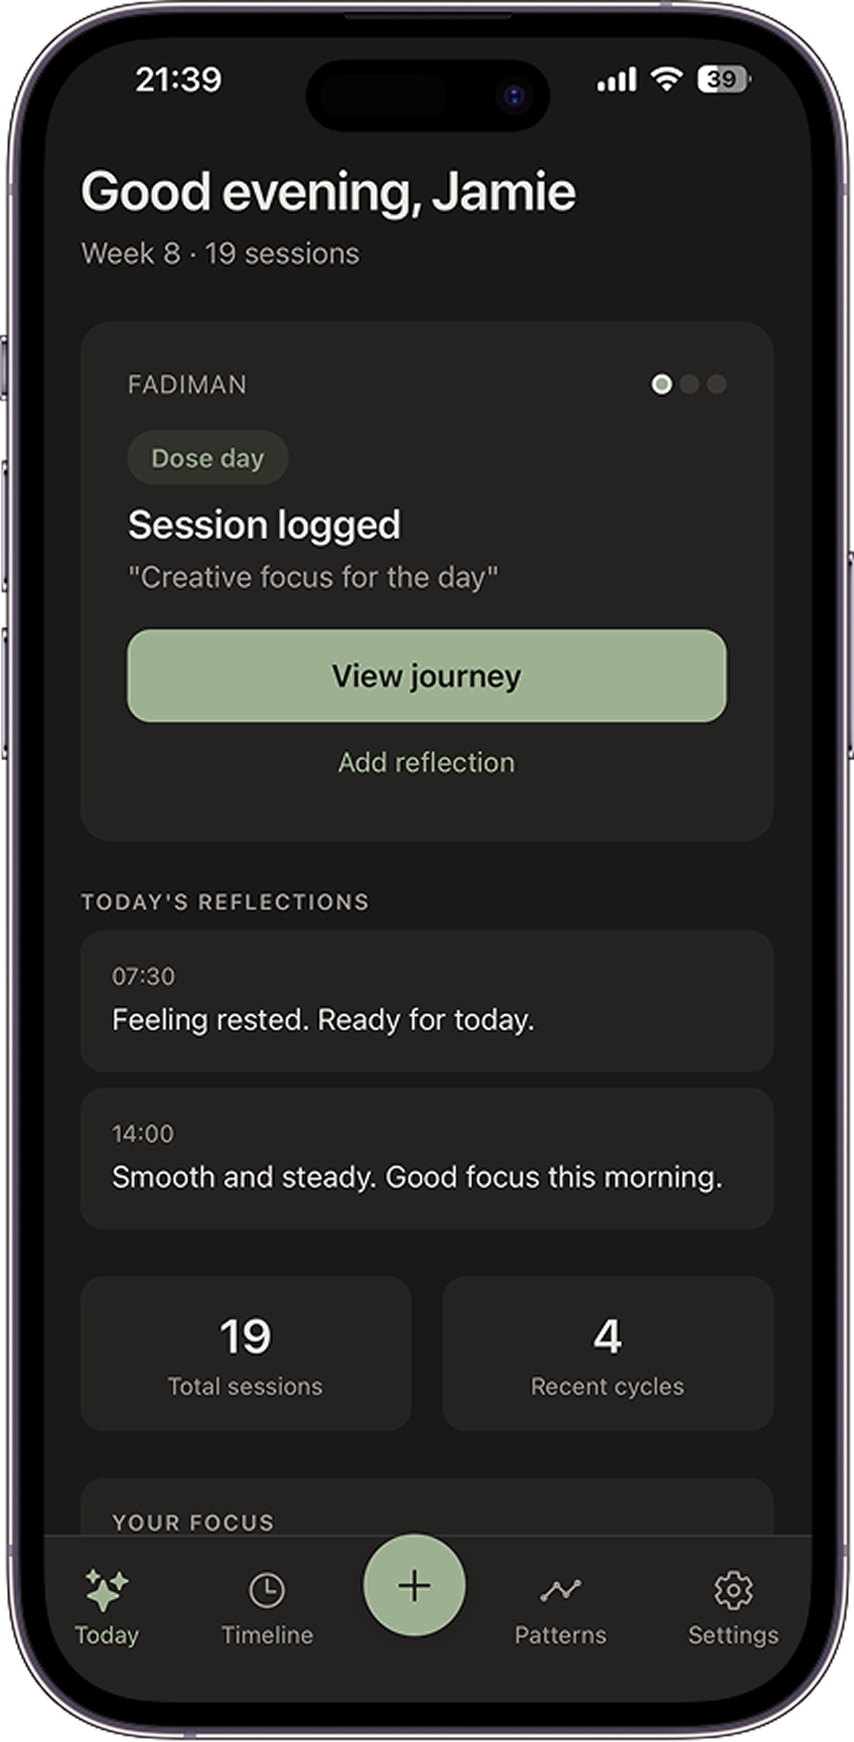
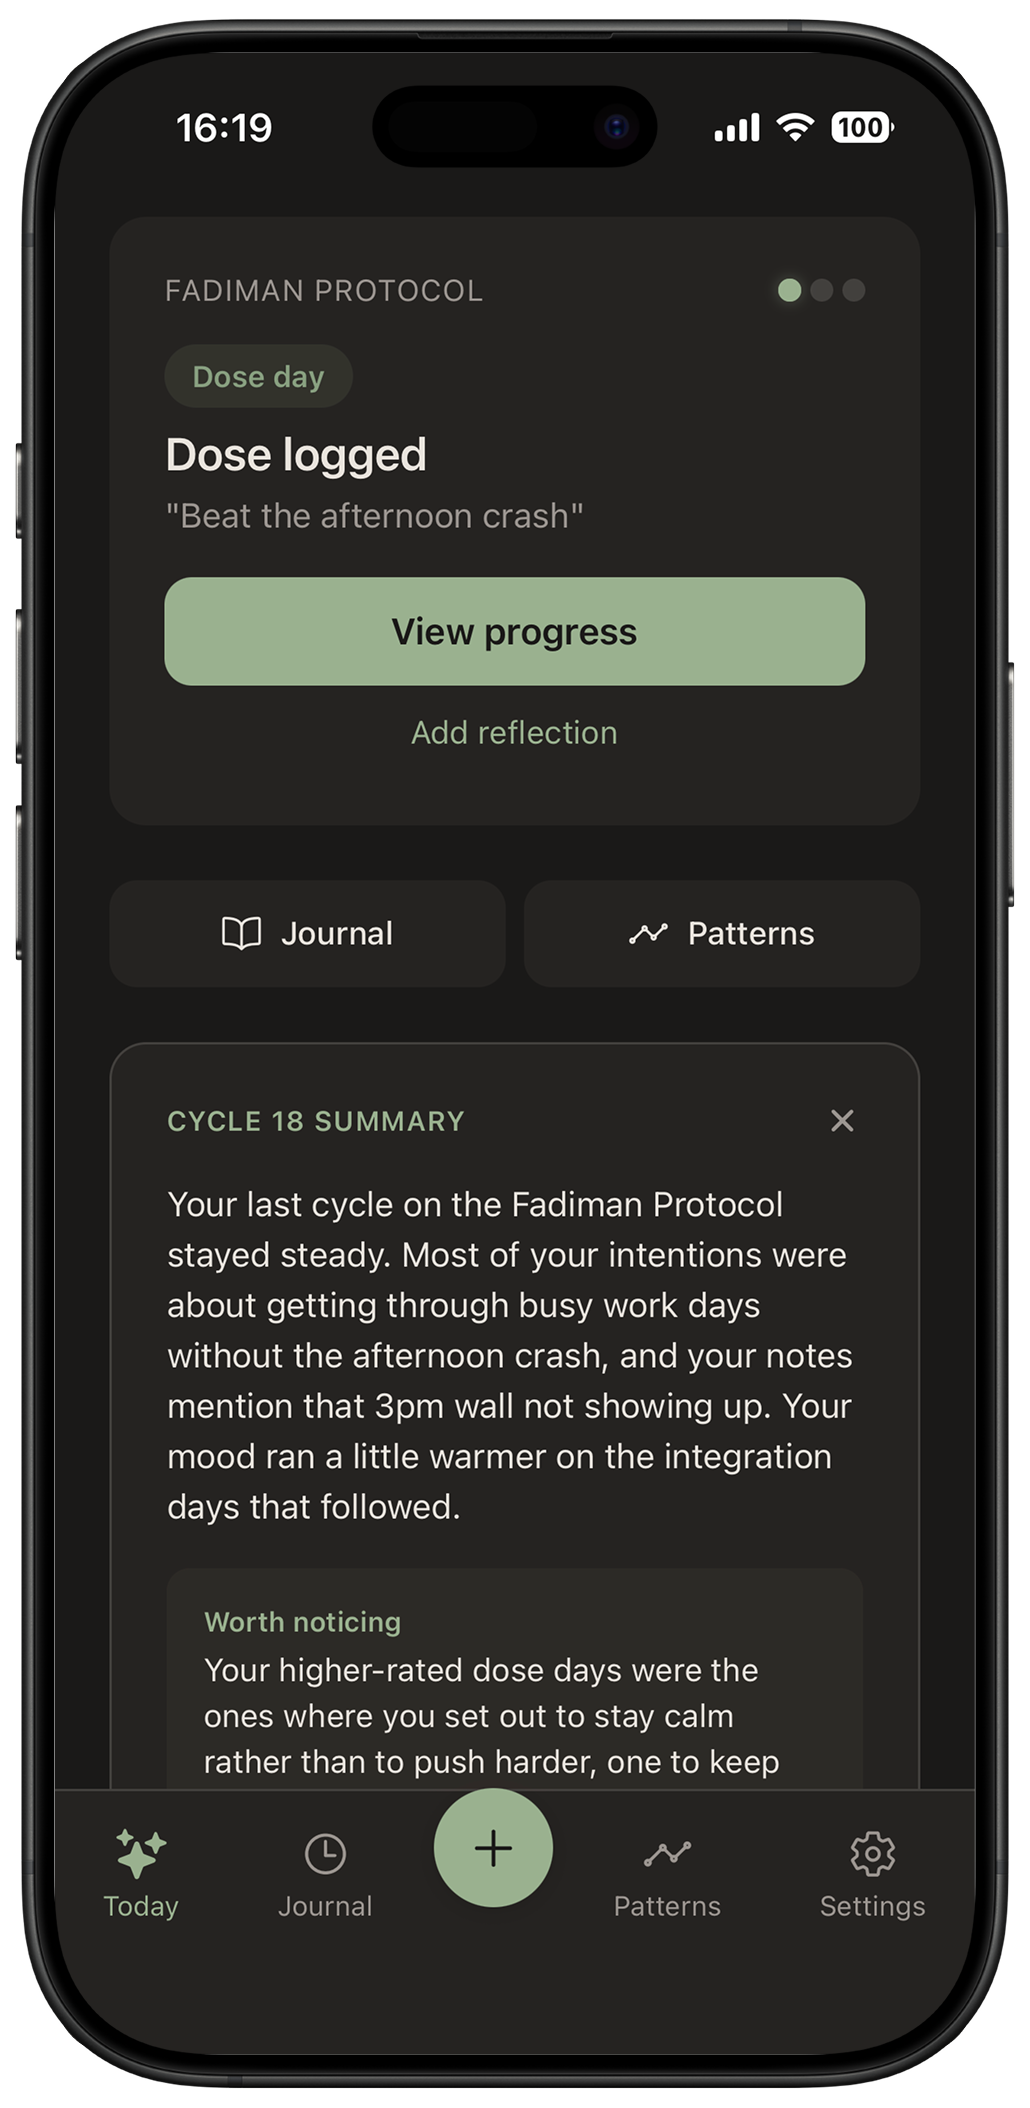
Update landing screenshots to the current app
Replace stale screenshots (old terminology / pre-calendar UI) with the current
set: front-on transparent device mockups for the hero (home) and the grid
(Calendar, Set Intention, Custom Protocol, Settings). Drop the rounded-clip
wrappers and use alpha-aware drop shadows since these are framed transparent
mockups, not flat captures.

Changed region(s): [[0.0, 0.0, 1.0, 1.0], [0.7611, 0.124, 0.8525, 0.155]]

diff --git a/src/app/page.tsx b/src/app/page.tsx
@@ -120,18 +120,14 @@ export default function DoseLanding() {
 
             {/* Right: Phone Mockup */}
             <div className="hidden md:flex justify-center">
-              <div className="relative">
-                <div className="overflow-hidden rounded-[2.5rem] shadow-2xl shadow-black/30">
-                  <Image
-                    src="/screenshots/home.png"
-                    alt="Dose app home screen"
-                    width={280}
-                    height={607}
-                    className="w-[280px] h-auto"
-                    priority
-                  />
-                </div>
-              </div>
+              <Image
+                src="/screenshots/home.png"
+                alt="Dose app home screen"
+                width={300}
+                height={614}
+                className="w-[300px] h-auto drop-shadow-2xl"
+                priority
+              />
             </div>
           </div>
 
@@ -278,52 +274,44 @@ export default function DoseLanding() {
           
           <div className="grid grid-cols-1 sm:grid-cols-2 md:grid-cols-4 gap-6 md:gap-6 max-w-xs sm:max-w-none mx-auto">
             <div className="space-y-2">
-              <div className="overflow-hidden rounded-[2rem]">
-                <Image
-                  src="/screenshots/log-dose.png"
-                  alt="Log dose screen"
-                  width={280}
-                  height={607}
-                  className="w-full h-auto"
-                />
-              </div>
-              <p className="hidden md:block text-sm text-[#1a1f16]/60 text-center">Log Dose</p>
+              <Image
+                src="/screenshots/calendar.png"
+                alt="Journey calendar screen"
+                width={280}
+                height={573}
+                className="w-full h-auto drop-shadow-xl"
+              />
+              <p className="hidden md:block text-sm text-[#1a1f16]/60 text-center">Calendar</p>
             </div>
             <div className="space-y-2">
-              <div className="overflow-hidden rounded-[2rem]">
-                <Image
-                  src="/screenshots/breathwork.png"
-                  alt="Breathwork screen"
-                  width={280}
-                  height={607}
-                  className="w-full h-auto"
-                />
-              </div>
-              <p className="hidden md:block text-sm text-[#1a1f16]/60 text-center">Breathwork</p>
+              <Image
+                src="/screenshots/intention.png"
+                alt="Set intention screen"
+                width={280}
+                height={573}
+                className="w-full h-auto drop-shadow-xl"
+              />
+              <p className="hidden md:block text-sm text-[#1a1f16]/60 text-center">Set Intention</p>
             </div>
             <div className="space-y-2">
-              <div className="overflow-hidden rounded-[2rem]">
-                <Image
-                  src="/screenshots/insights.png"
-                  alt="Insights screen"
-                  width={280}
-                  height={607}
-                  className="w-full h-auto"
-                />
-              </div>
-              <p className="hidden md:block text-sm text-[#1a1f16]/60 text-center">Deep Insights</p>
+              <Image
+                src="/screenshots/protocol.png"
+                alt="Custom protocol screen"
+                width={280}
+                height={573}
+                className="w-full h-auto drop-shadow-xl"
+              />
+              <p className="hidden md:block text-sm text-[#1a1f16]/60 text-center">Custom Protocol</p>
             </div>
             <div className="space-y-2">
-              <div className="overflow-hidden rounded-[2rem]">
-                <Image
-                  src="/screenshots/journal.png"
-                  alt="Journal screen"
-                  width={280}
-                  height={607}
-                  className="w-full h-auto"
-                />
-              </div>
-              <p className="hidden md:block text-sm text-[#1a1f16]/60 text-center">Journal</p>
+              <Image
+                src="/screenshots/settings.png"
+                alt="Settings screen"
+                width={280}
+                height={573}
+                className="w-full h-auto drop-shadow-xl"
+              />
+              <p className="hidden md:block text-sm text-[#1a1f16]/60 text-center">Private</p>
             </div>
           </div>
         </div>